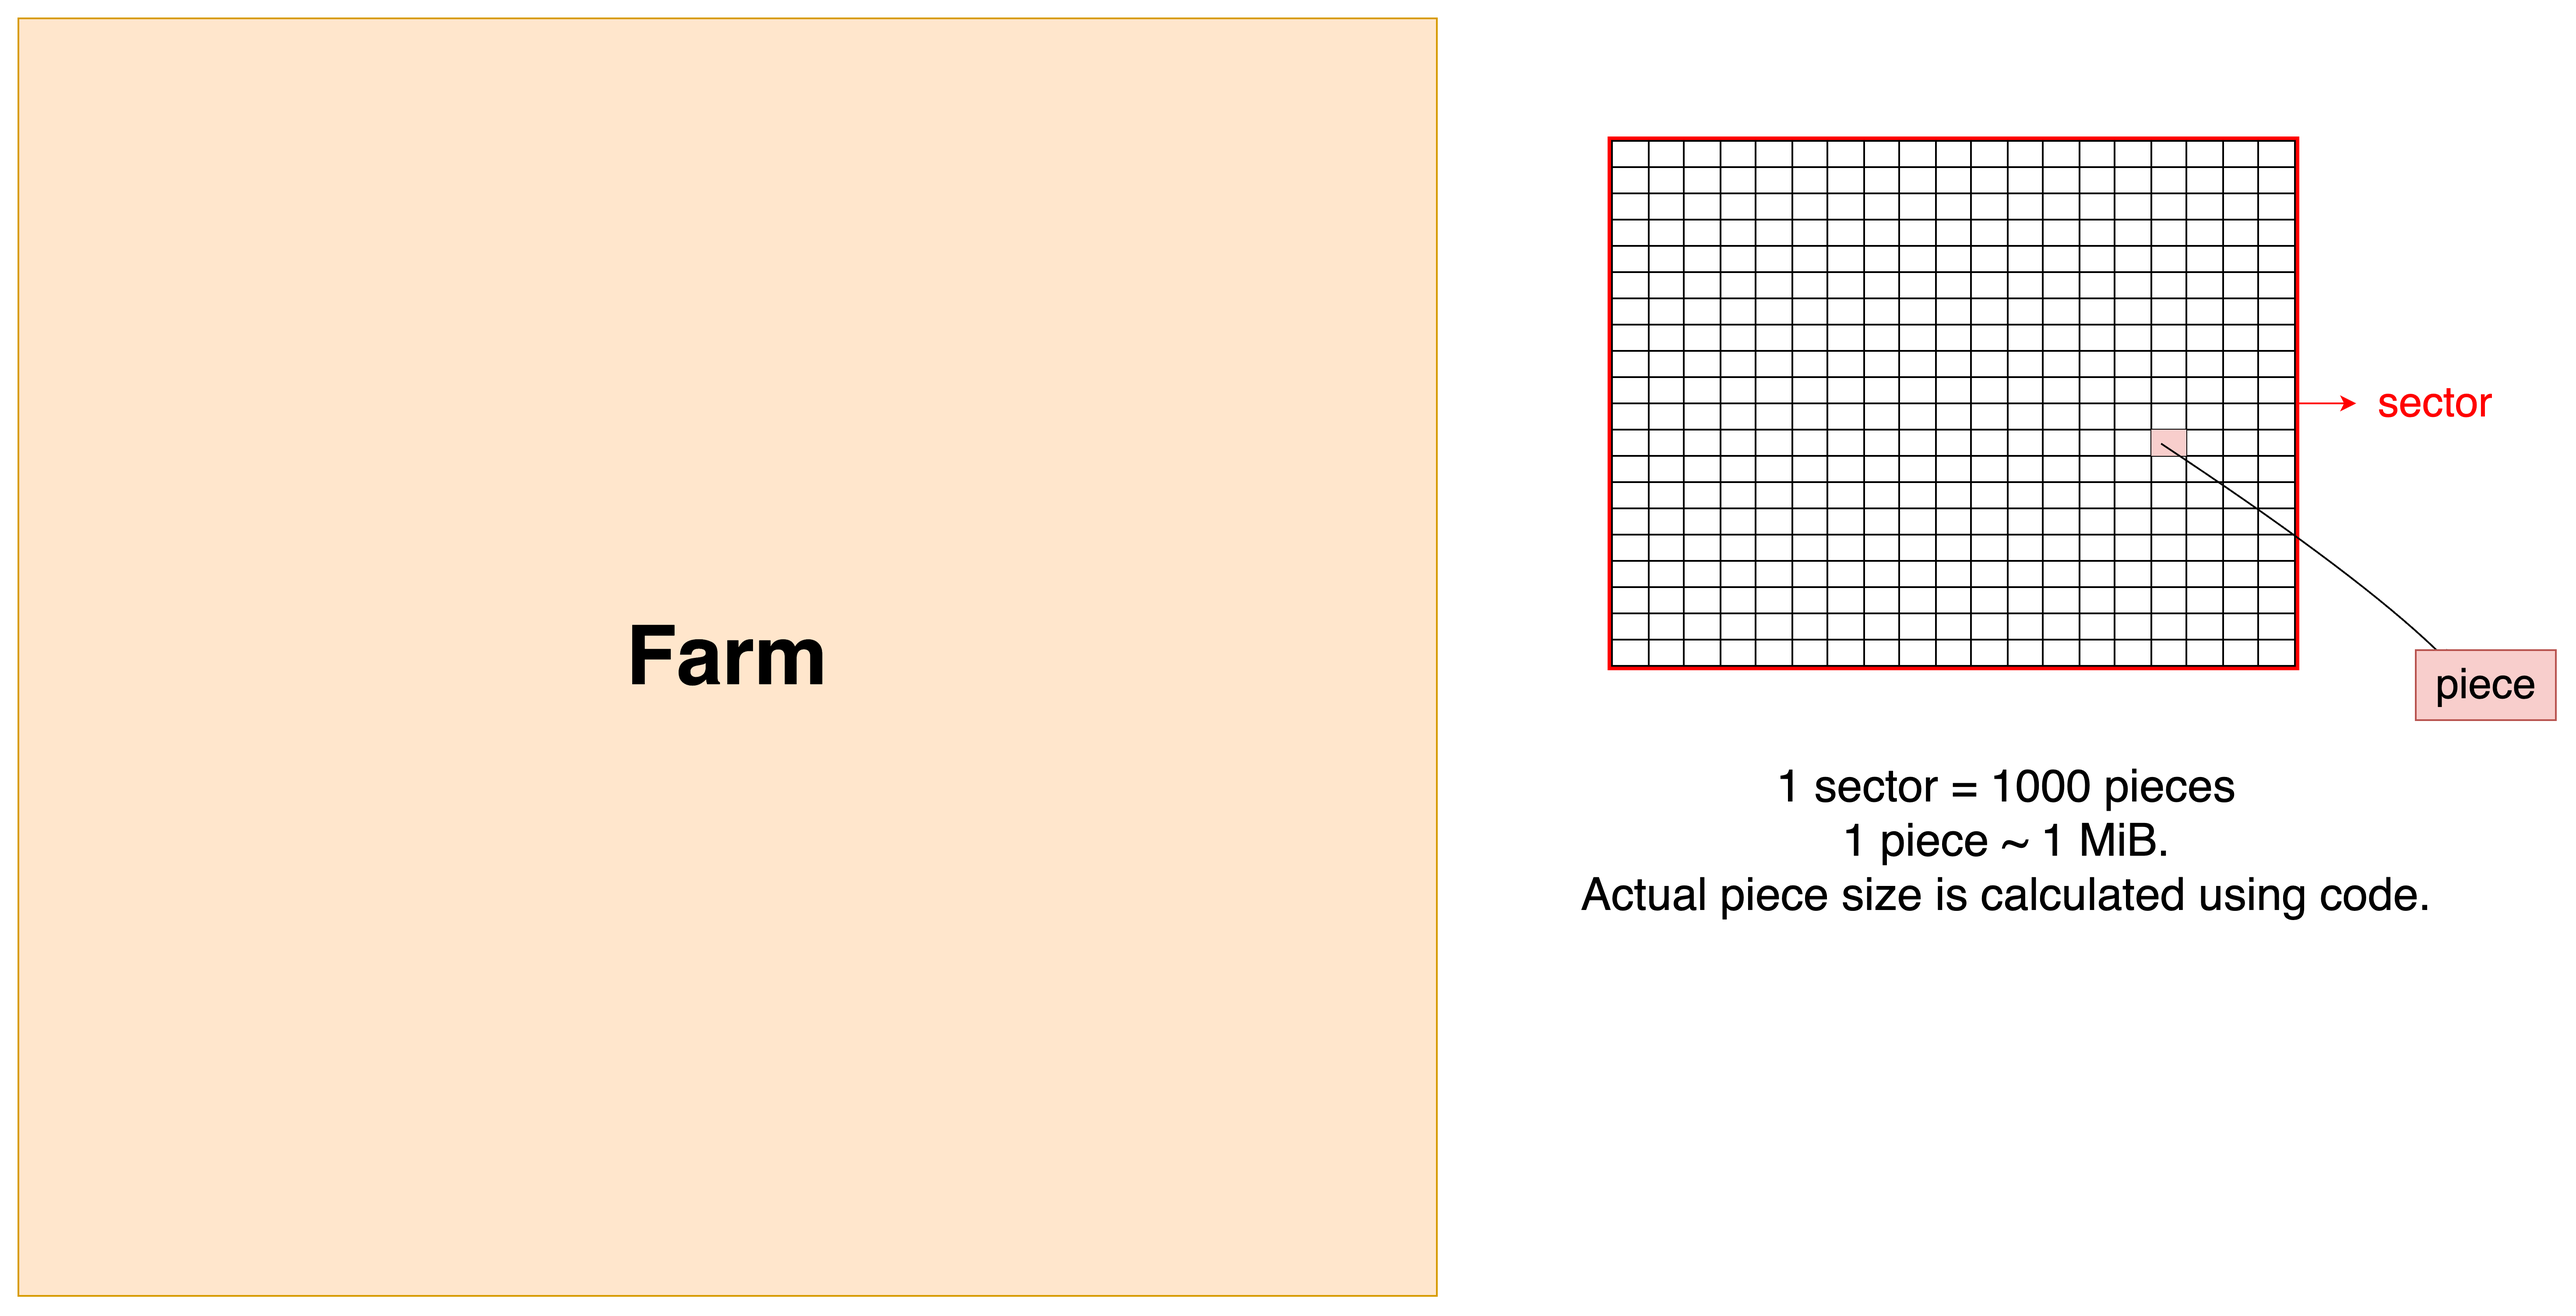
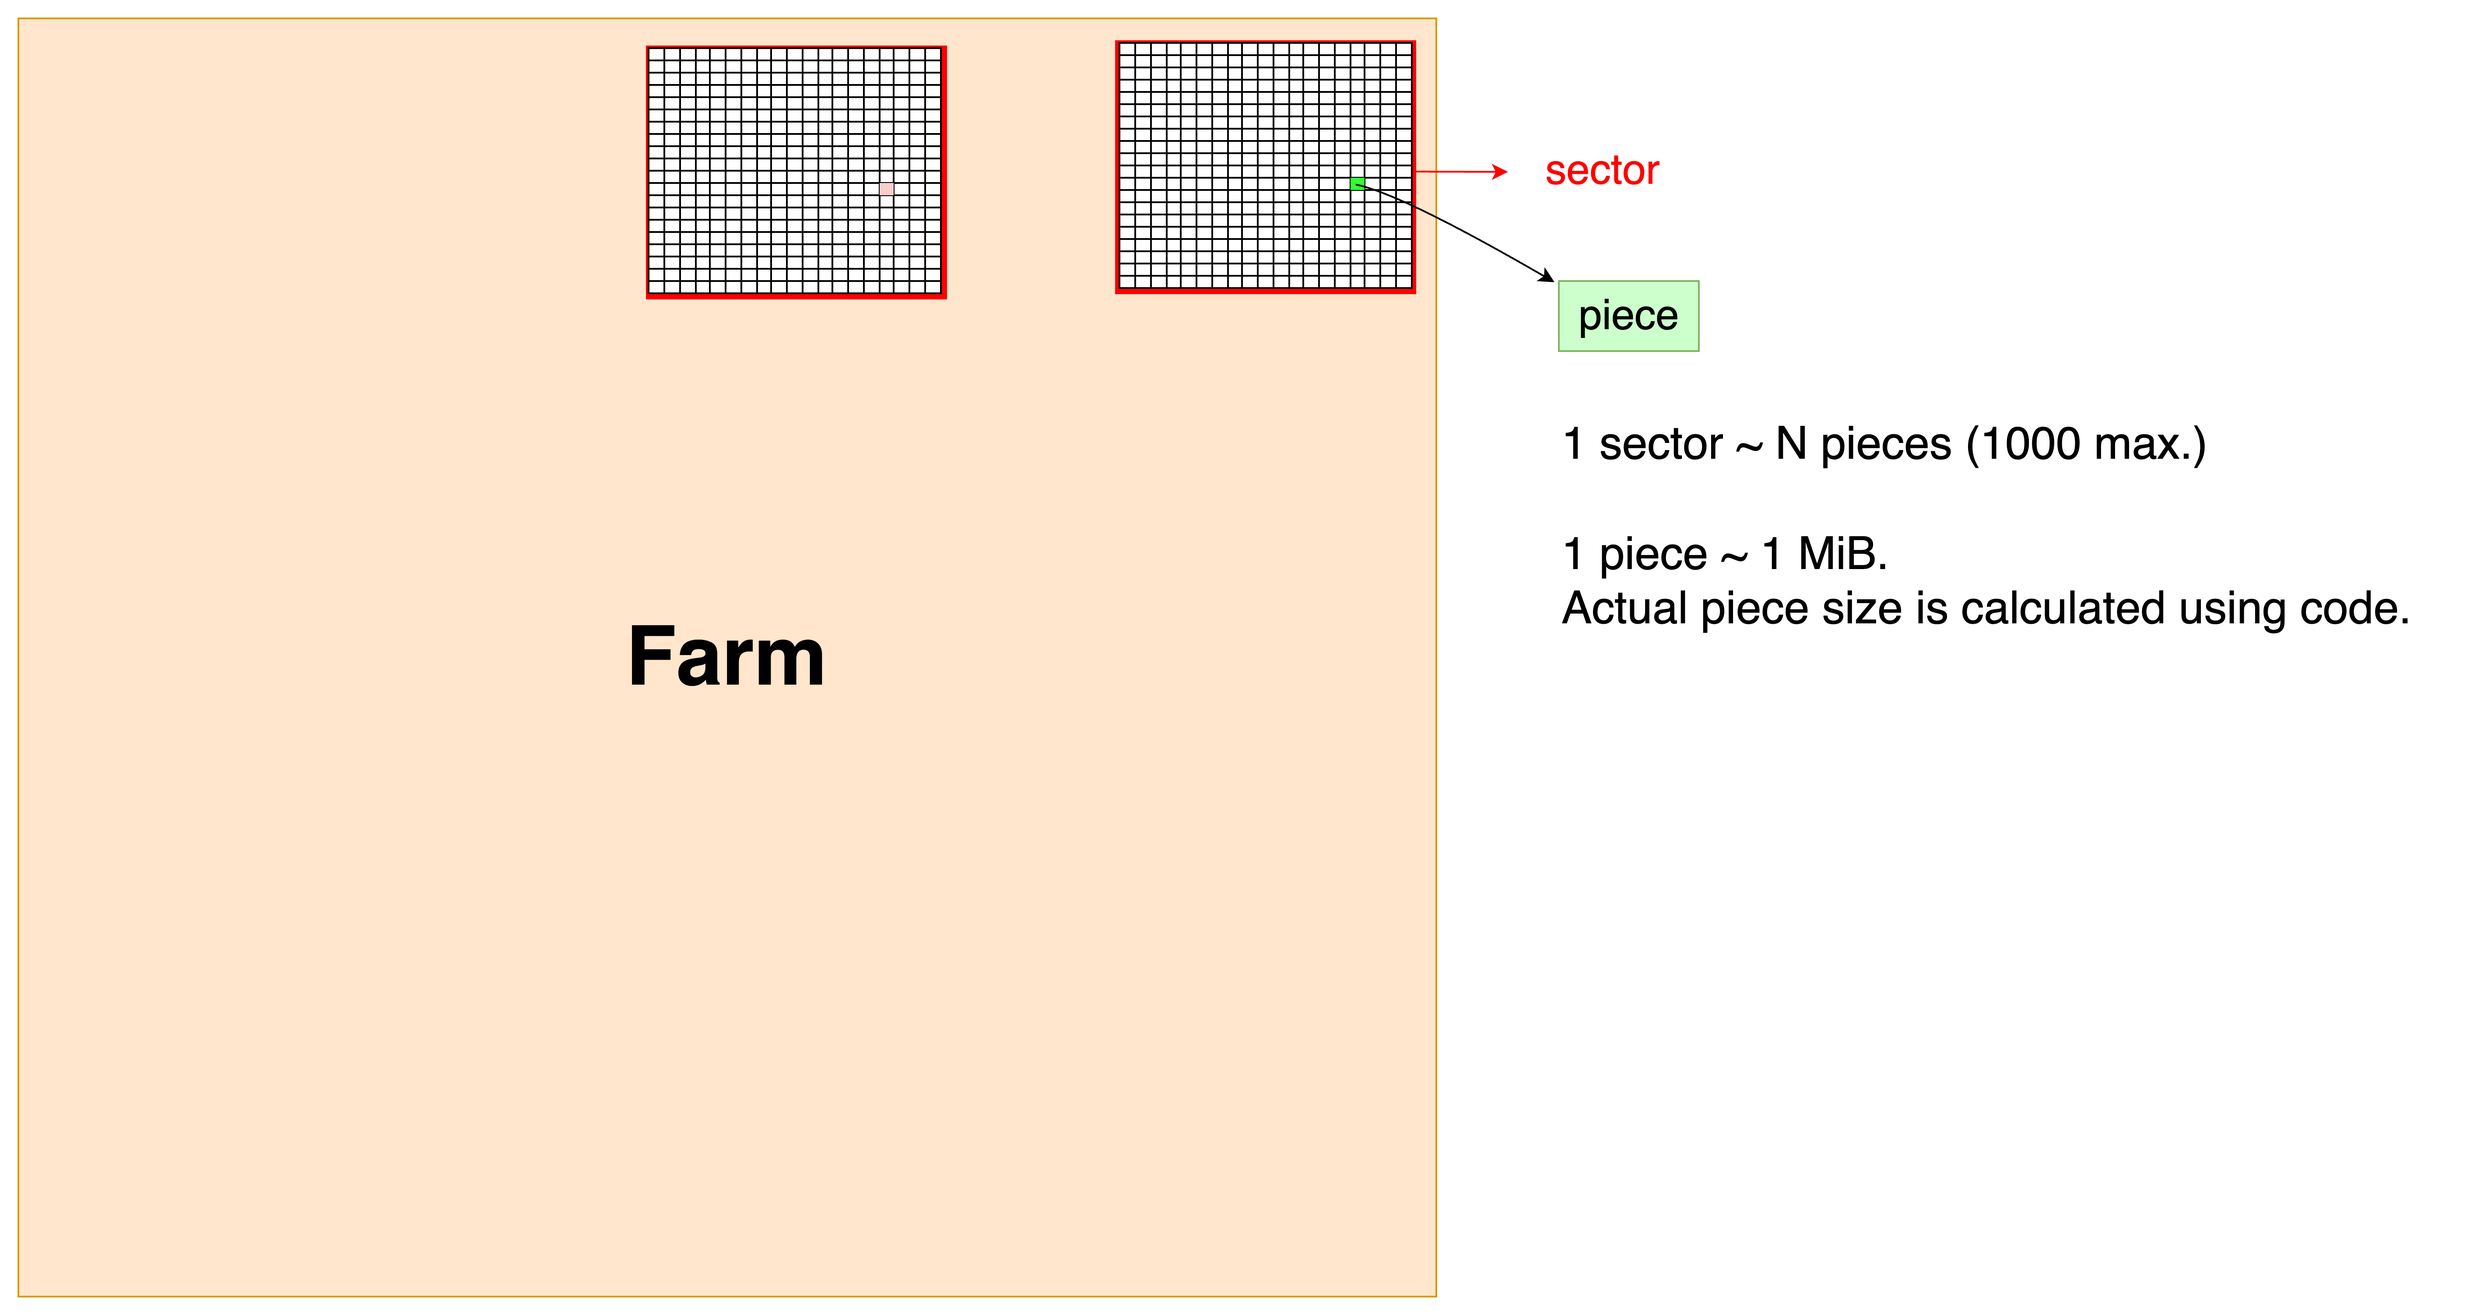
Verified notes

diff --git a/src/consensus.md b/src/consensus.md
@@ -66,7 +66,9 @@ impl Get<u128> for TotalSpacePledged {
 
 ## Farm
 
-A farm is a collection of sectors where each sector has 1000 pieces, where each piece is of almost ~ 1 MiB (Mebibyte = 2^20 bytes). It is actually calculated as per this code:
+A farm is a collection of sectors where each sector has N (max. 1000 in the [code](https://github.com/subspace/subspace/blob/8fff19cb8532f39fa670e13dd629c024350c8010/crates/subspace-runtime/src/lib.rs#L101-L102) for now) pieces, where each piece is of almost $\gtrapprox$ 1 MiB (Mebibyte = 2^20 bytes). The piece size is actually calculated as per this code:
+
+[Source code](https://github.com/subspace/subspace/blob/main/crates/subspace-core-primitives/src/pieces.rs#L801)
 
 ```rust
 impl Piece {
@@ -74,10 +76,22 @@ impl Piece {
 }
 ```
 
+> We would use N = 1000 for calculation of no. of sectors below.
+
 ![](assets/farm_sectors_pieces.png)
 
 Now, if a farm is of size 2 GB, then it should have sectors = 2GB / (1000 * 2^20) = 1.907... means 1 sector & 907 pieces.<br/>
 But, out of 2 GB, 1 full sector of size ~ 1 GiB is actually farmed. And rest includes metadata and some left over empty space.
 
 Q. By the way, the minimum farm size is set as `2 GB`. And why so? <br/>
-Because plot size < 2 GB  would not fit a full sector and some metadata. So, at least 2 GB plot/farm size is required.
+Because a full sector + metadata would not fit into a plot < 2 GB. So, at least 2 GB plot/farm size is required.
+
+Here are the key takeaways:
+
+- A piece has size of $\gtrapprox$ 1 MiB
+- A sector has size of ~ 1.3 GB
+- A farm/plot has min. required size of 2 GB
+
+## References
+
+- [Subspace Dilithium Consensus Specification](https://subspacelabs.notion.site/Subspace-Dilithium-Consensus-Specification-v2-3-274a730b53eb4c93a8d879b90de532ce#24a718a13e434417a72ead964f073631)
